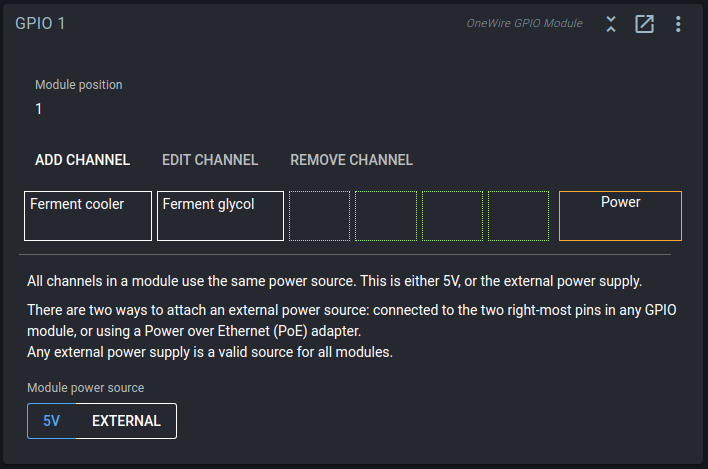
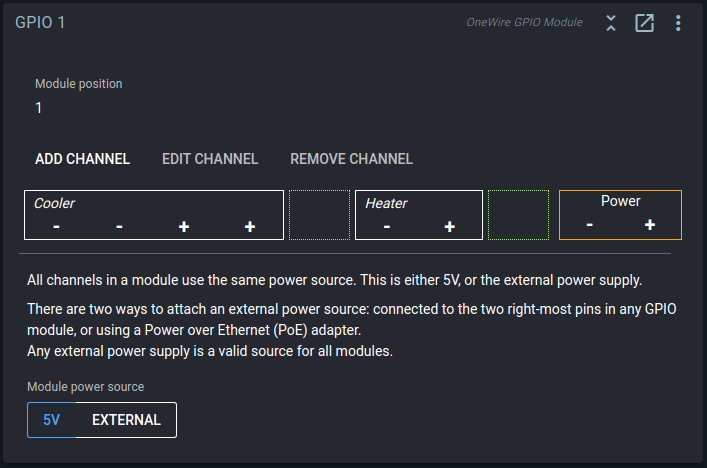
describe pin mapping / multiplication in blocks docs

diff --git a/docs/user/all_blocks.md b/docs/user/all_blocks.md
@@ -96,6 +96,19 @@ In the below screenshot, the **Ferment cooler** channel is mapped to pins 1 and 
 
 To change pin assignment, you can click the channel and select its new start position.
 
+**Multiplication**
+
+There is a maximum of 1A per **+** pin. If you have a motor that draws 2.5A, you will have to multiply the pins x3 in the channel settings,
+and then connect the 6 pins (3x **-**, 3x **+**) to your motor.
+
+Alternatively, you can multiply the pins to control parallel devices with the same digital actuator.
+
+**Polarity**
+
+When assigned, the Widget shows the **-** / **+** / **GND** / **PWR** mapping of the pins within the channels.
+**-** pins are always on the left side, and **+** pins on the right side.
+If the channel is multiplied, all **-** pins will be to the left, and all **+** pins to the right.
+
 ![GPIO Module](../images/block-gpio-full.png)
 
 ### DS2413 Chip
